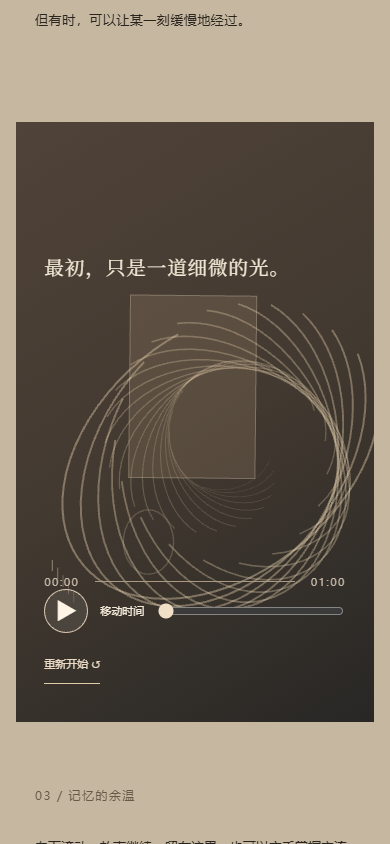
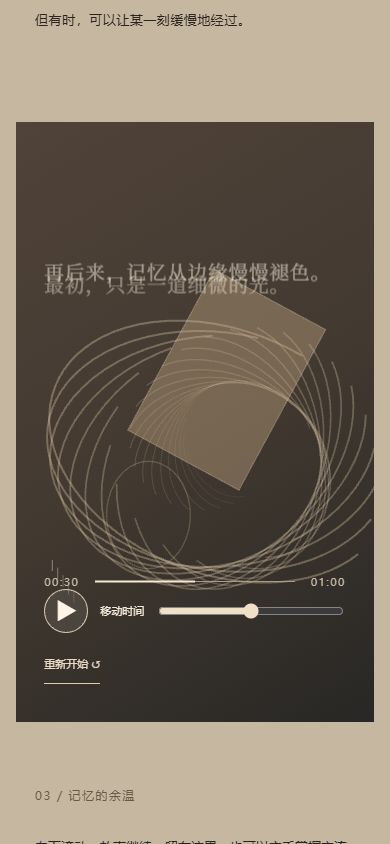
fix(light-paper-time): activate scroll-driven time story and update visual QA

Changed region(s): [[0.0923, 0.3081, 0.9538, 0.7393]]

diff --git a/little-works/light-paper-time/experience.js b/little-works/light-paper-time/experience.js
@@ -175,5 +175,5 @@ function tick(now){
 const observer=new IntersectionObserver(items=>{items.forEach(item=>{if(item.target===frame)motion.visible=item.isIntersecting;if(item.target===theatre)story.visible=item.isIntersecting})},{rootMargin:'100px'});
 observer.observe(frame);observer.observe(theatre);
 const ro=new ResizeObserver(()=>{resizeOptics();resizeTime()});ro.observe(frame);ro.observe(theatre);
-function boot(){initOptics();resizeTime();updateScroll();updateNav();setPlay(false);paintTime();requestAnimationFrame(tick)}
+function boot(){initOptics();resizeTime();updateScroll();updateNav();setPlay(false);story.mode='scroll';paintTime();requestAnimationFrame(tick)}
 image.onload=()=>{if(motion.available){glass.width=0;resizeOptics()}};document.fonts.ready.then(boot).catch(boot);
